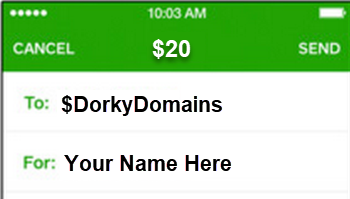
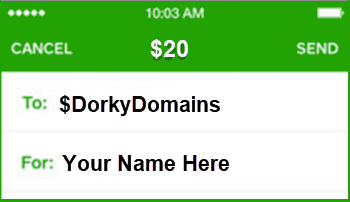
Added th Grift

diff --git a/index.html b/index.html
@@ -41,6 +41,10 @@
             background-color: #fffbe6; /* Optional: to match the background */
         }
 
+        .demo{
+            width: 40%;
+        }
+
 
         .para-header {
             margin-top: 30px;
@@ -210,15 +214,36 @@
         <h2>Church Membership</h2>
         <ul>
             <li>
-                Would you like to join the congregation?
+                Would you like to join our congregation?
             </li>
             <li>
-                Yes? Please use your Cash App to send a
-                $20 offering to $DorkyDomains
+                Do you share our beliefs?
             </li>
             <li>
-                Add your name in the "For" section.
-                <img src="images/" class="banner" alt="Cheddar Church Banner" />
+                Will you share your faith with others?
+            </li>
+            <li>
+                Cash App us some cheddar!<br/>
+                <img src="images/CashAppSendScreen.png" class="demo" alt="Chash App Screenshot" />
+            </li>
+            <li>
+                Want more status?
+            </li>
+            <li>
+                Send more cheddar!
+            </li>
+        </ul>
+
+        <h2>Our Congregation</h2>
+        <ul>
+            <li>
+                Dave & Jolene Knight ($100)
+            </li>
+            <li>
+                Douglas J. Raley ($65)
+            </li>
+            <li>
+                Glen Keener ($40)
             </li>
         </ul>
 
